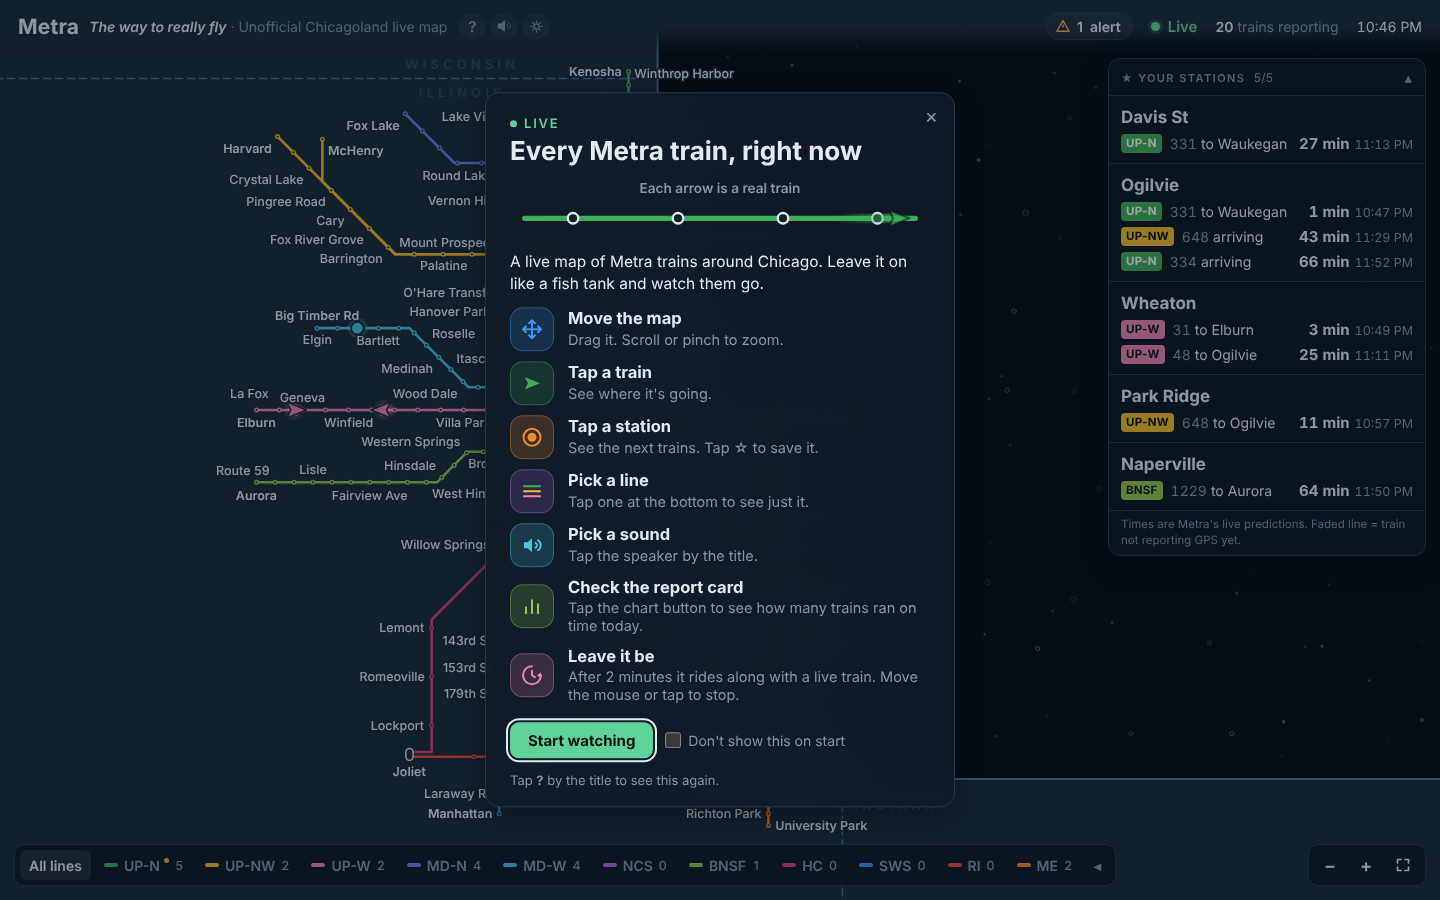
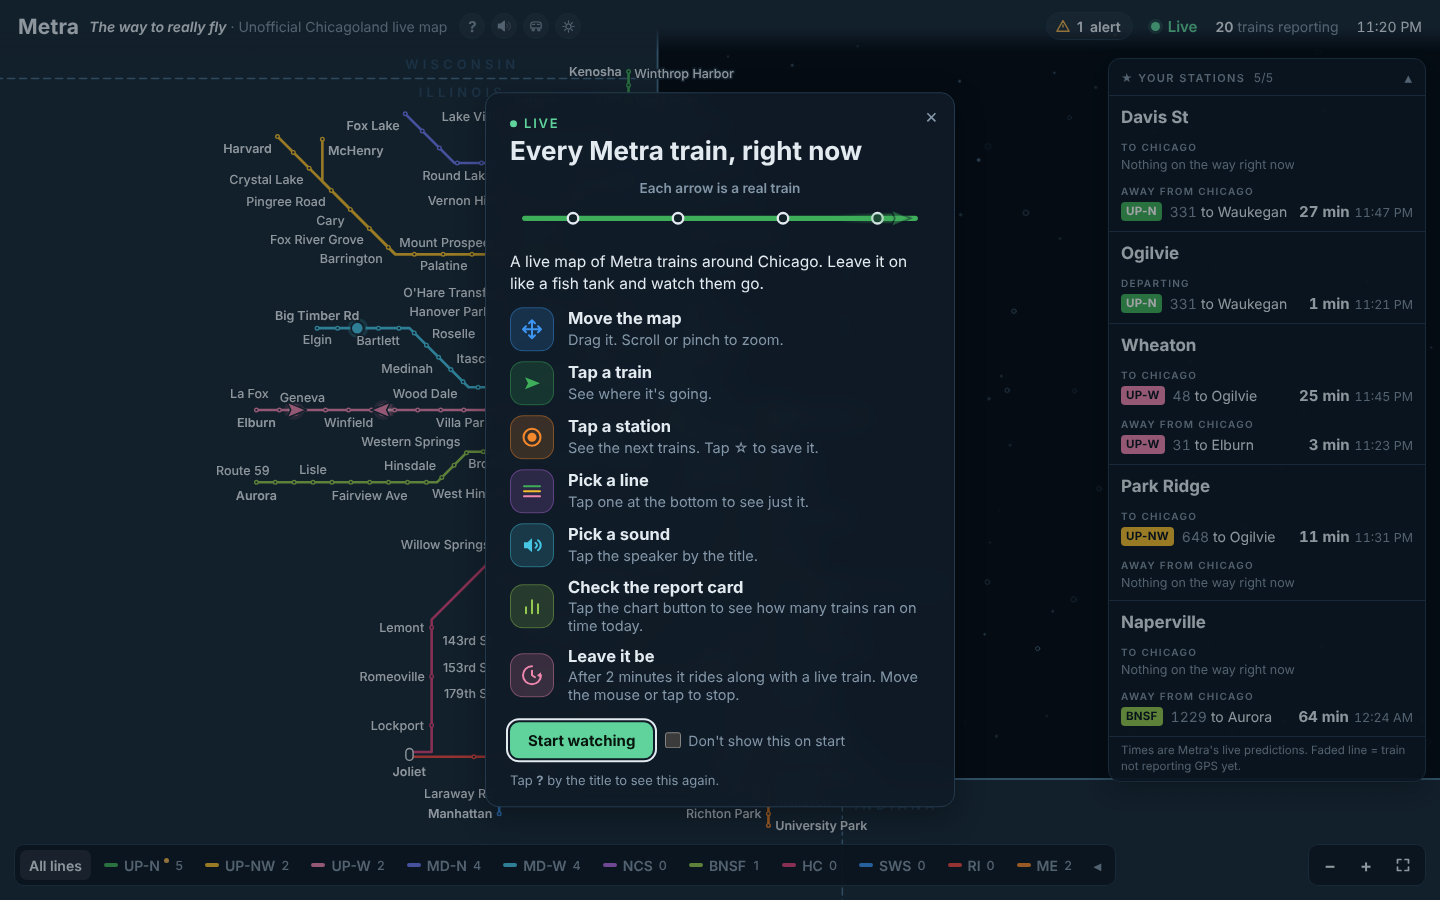
README: station times by direction, cute trains; refreshed screenshots
Claude-Session: https://claude.ai/code/session_015yZ5M93PaviEULjR5vuC4G

Changed region(s): [[0.7812, 0.2489, 1.0, 0.6533], [0.7812, 0.6844, 0.9688, 0.8711], [0.7812, 0.1244, 0.9688, 0.2178]]

diff --git a/README.md b/README.md
@@ -33,7 +33,11 @@ See where it's headed, the station it just passed, and when it reaches the next 
 
 ### Tap a station
 
-See the next trains in each direction, with minutes until they arrive. Tap ☆ to save the station to your board on the right.
+See the next trains in each direction, **To Chicago** and **Away from Chicago**, with minutes until they arrive. Both directions always show, even when one has nothing coming yet.
+
+At the downtown stations (Ogilvie, Union Station, LaSalle St and Millennium), you only see trains **leaving**, since that's what you'd catch there.
+
+Tap ☆ to save a station to your board on the right. The board shows the same thing for each saved station.
 
 <img src="docs/2026-10-07-station-times.png" alt="Upcoming trains at Wheaton" width="640">
 
@@ -44,6 +48,8 @@ Everything works on a phone too. Your saved stations sit in a strip at the botto
 <img src="docs/2026-10-07-phone.png" alt="The map on a phone" width="260">
 - Has light and dark mode.
 - Can show cute little trains instead of arrows. Click the train button next to the title, or press **C**. Their wheels turn while they're moving.
+
+<img src="docs/2026-10-07-cute-trains.png" alt="A cute UP-NW train rolling past Cumberland" width="420">
 
 ## Sounds
 
